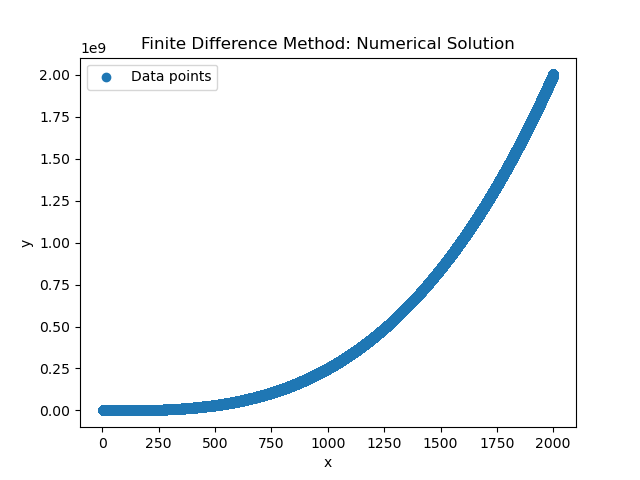
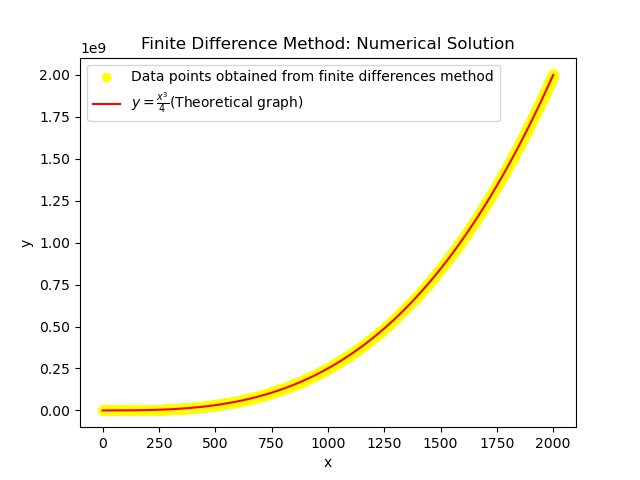
4th commit

Changed region(s): [[0.1562, 0.125, 0.875, 0.875], [0.125, 0.125, 0.7812, 0.25], [0.2188, 0.9062, 0.2812, 0.9375]]

diff --git a/de1/de1.tex b/de1/de1.tex
@@ -74,6 +74,7 @@ The first forward difference approximation of the derivative of $f(x)$ at $x$ is
 Let $f(x+h)=y_{n+1}$ and $f(x)=y_n$
 \begin{equation}
     \implies y_{n+1}=h\times\frac{dy}{dx}+y_n
+    \implies y_{n+1}=h\brak{{x_n}^2-\frac{y_n}{x_n}}+y_n
 \end{equation}
 We already know that our derivative is given by:
 $$\frac{dy}{dx}=x^2-\frac{y}{x}$$
@@ -97,6 +98,13 @@ $y.x = \frac{x^4}{4}+C$
 Let's assume $C=0$, we get:\\
 $$y=\frac{x^3}{4}$$
 We can now verify that the given graph is $y=\frac{x^3}{4}$
+
+\begin{figure}[h]  % 'h' specifies the preferred position for the figure (here, 'h' means "here")
+  \centering  % Centers the figure
+  \includegraphics[width=0.5\textwidth]{figs/de1.png}  
+  \caption{$y=\frac{x^3}{4}$}
+  \label{fig:example}  % Label for referencing
+\end{figure}
 
 
 

diff --git a/de1/codes/de1.py b/de1/codes/de1.py
@@ -30,7 +30,20 @@ x_array = np.ctypeslib.as_array(x)
 y_array = np.ctypeslib.as_array(y)
 
 # Plot the points using matplotlib
-plt.scatter(x_array, y_array, label='Data points')
+plt.scatter(x_array, y_array, label='Data points obtained from finite differences method',color='yellow')
+# Plotting the actual curve for verification
+
+# Defining the range of x values and the function y = x^3 / 4
+x = np.linspace(0, 2000, 50000)
+y = x**3 / 4
+
+# Plotting the curve
+plt.plot(x, y, label=r"$y = \frac{x^3}{4}$(Theoretical graph)", color="red")
+
+# Adding a legend to distinguish this curve
+plt.legend(fontsize=12)
+
+
 plt.xlabel('x')
 plt.ylabel('y')
 plt.title('Finite Difference Method: Numerical Solution')
